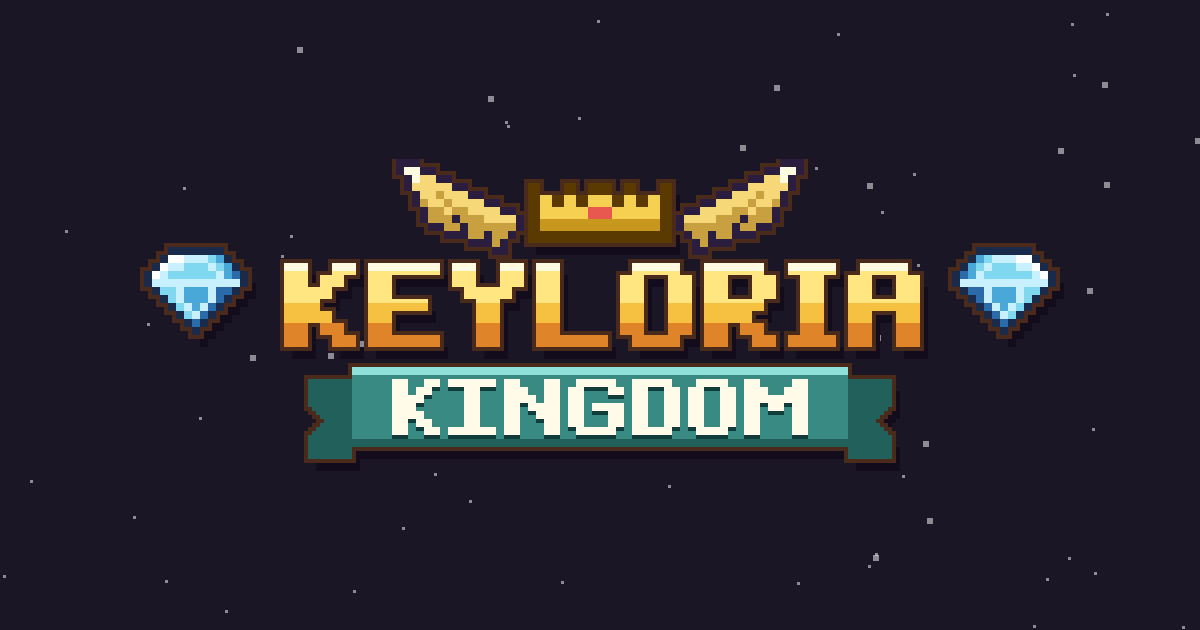
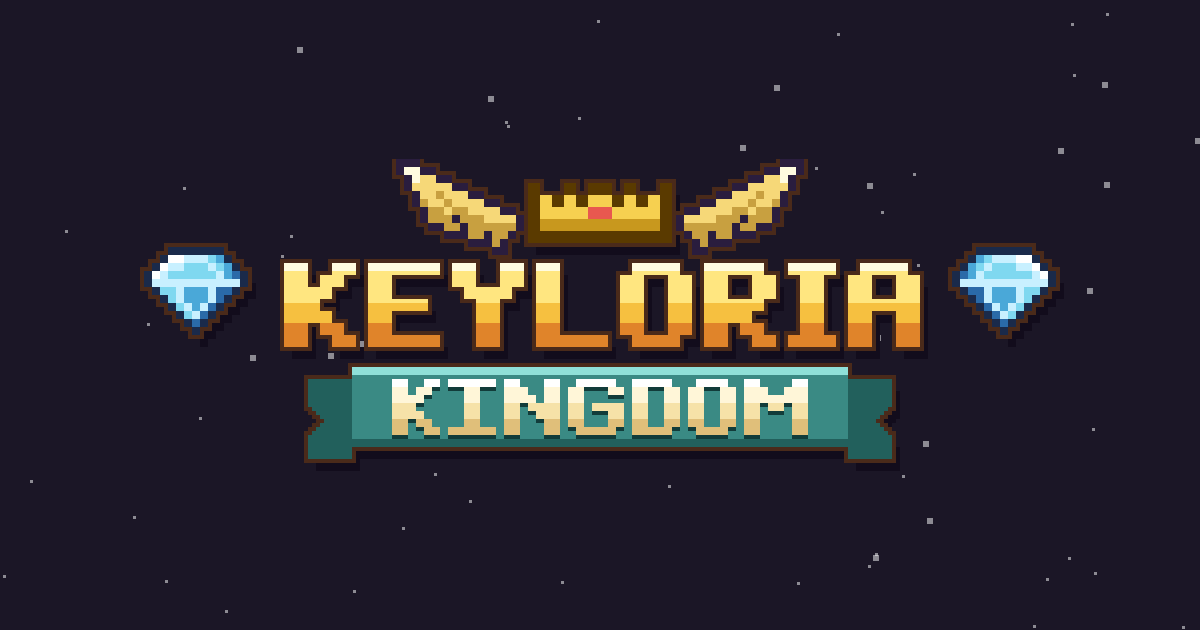
kingdom gradient

Changed region(s): [[0.3083, 0.6333, 0.6783, 0.6937]]

diff --git a/public/game.js b/public/game.js
@@ -2168,9 +2168,9 @@ function logoCanvas(){const W=240,H=78,c=document.createElement('canvas');c.widt
  const kw=[...'KINGDOM'].reduce((t,ch)=>t+KF[ch][0].length+1,-1)*2,rw=kw+20,rx=Math.round((W-rw)/2),ry=52,rh=20;
  [[-11,rx-11],[1,rx+rw]].forEach(([d,x0])=>{for(let y=3;y<rh+3;y++)for(let x=0;x<11;x++){const mid=(rh+6)/2,dd=Math.abs(y-mid),cut=dd<4?4-Math.round(dd):0;const notch=d<0?x<cut:x>10-cut;if(!notch)set(x0+x,ry+y,'rD')}});
  for(let y=0;y<rh;y++)for(let x=0;x<rw;x++)set(rx+x,ry+y,y<2?'rH':y>rh-3?'rD':'rB');
- const wordK=(x0,y0,tag)=>{let x=x0;[...'KINGDOM'].forEach(ch=>{const gph=KF[ch];gph.forEach((row,yy)=>[...row].forEach((v,xx)=>{if(v==='X')for(let a=0;a<2;a++)for(let q=0;q<2;q++)set(x+xx*2+a,y0+yy*2+q,tag)}));x+=(gph[0].length+1)*2})};
+ const wordK=(x0,y0,tag)=>{let x=x0;[...'KINGDOM'].forEach(ch=>{const gph=KF[ch];gph.forEach((row,yy)=>[...row].forEach((v,xx)=>{if(v==='X')for(let a=0;a<2;a++)for(let q=0;q<2;q++){const Y=yy*2+q;set(x+xx*2+a,y0+Y,tag==='wS'?tag:'w'+(Y<2?'0':Y<6?'1':Y<10?'2':'3'))}}));x+=(gph[0].length+1)*2})};
  wordK(rx+10,ry+3+1,'wS');wordK(rx+10,ry+3,'w1');
- const P={go:'#1a2a4a',gH:'#ffffff',gh:'#c8f0ff',gL:'#7fd8f0',gB:'#4aa8d8',gD:'#2a6aa8',wo:'#2a1d3e',wB:'#c8a040',wL:'#f6d878',wH:'#fffbe0',co:'#5a3a00',cy:'#f6d050',cY:'#c8981e',cr:'#e8584f',t0:'#fffbe0',t1:'#ffe680',t2:'#f6c040',t3:'#e0842a',rH:'#8fe0d8',rB:'#3a8a84',rD:'#22605c',wS:'#123c3a',w0:'#fffbe0',w1:'#fffbe8',w2:'#fff6e0',w3:'#f0e0c0'};
+ const P={go:'#1a2a4a',gH:'#ffffff',gh:'#c8f0ff',gL:'#7fd8f0',gB:'#4aa8d8',gD:'#2a6aa8',wo:'#2a1d3e',wB:'#c8a040',wL:'#f6d878',wH:'#fffbe0',co:'#5a3a00',cy:'#f6d050',cY:'#c8981e',cr:'#e8584f',t0:'#fffbe0',t1:'#ffe680',t2:'#f6c040',t3:'#e0842a',rH:'#8fe0d8',rB:'#3a8a84',rD:'#22605c',wS:'#123c3a',w0:'#ffffff',w1:'#fff6d8',w2:'#f6e2a8',w3:'#e0bf7a'};
  for(let y=H-1;y>=0;y--)for(let x=W-1;x>=0;x--){const v=m[y][x];if(v&&v[0]!=='w'&&y+3<H&&x+2<W&&!m[y+3][x+2]){g.fillStyle='#120c1c';g.fillRect(x+2,y+3,1,1)}}
  for(let y=0;y<H;y++)for(let x=0;x<W;x++){if(m[y][x])continue;let near=false;for(let b=-1;b<=1&&!near;b++)for(let a=-1;a<=1;a++){const v=m[y+b]?.[x+a];if(v&&v[0]!=='w'||v&&v.length===2&&v[0]==='w'&&'oBLH'.includes(v[1])){near=true;break}}if(near){g.fillStyle='#4a2a1a';g.fillRect(x,y,1,1)}}
  for(let y=0;y<H;y++)for(let x=0;x<W;x++){const v=m[y][x];if(v){g.fillStyle=P[v]||'#fff';g.fillRect(x,y,1,1)}}
